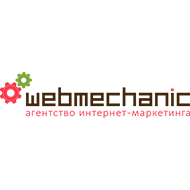
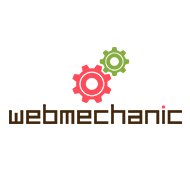
add webmechanic

Changed region(s): [[0.0, 0.2368, 1.0, 0.6579]]

diff --git a/index.html b/index.html
@@ -406,6 +406,10 @@
 							<img src="assets/img/partners/best.png" class="img-responsive" alt="Responsive image">
 						</a>
 
+						<a href="https://webmechanic.ru/" target="_blank">
+							<img src="assets/img/partners/webmechanic.png" class="img-responsive" alt="Responsive image">
+						</a>
+
 						<a href="https://www.sberbank.ru" target="_blank">
 							<img src="assets/img/partners/sberbank.png" class="img-responsive" alt="Responsive image">
 						</a>
